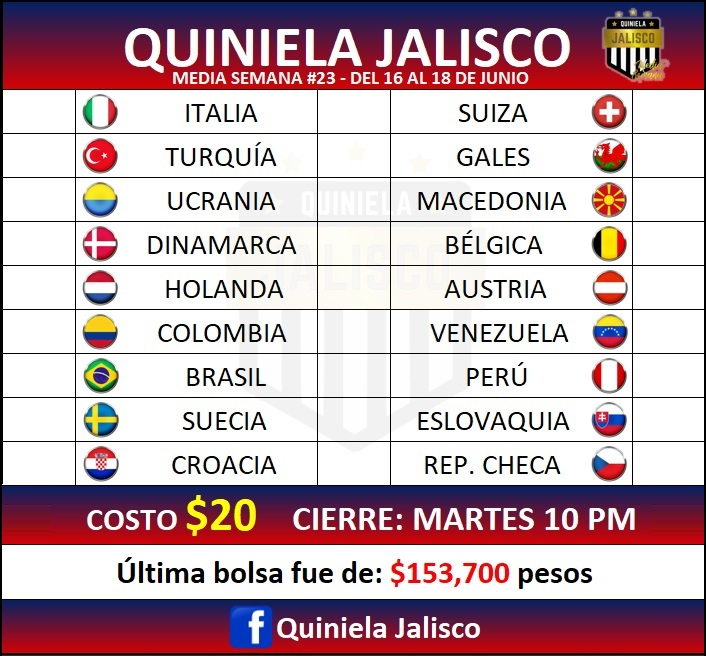
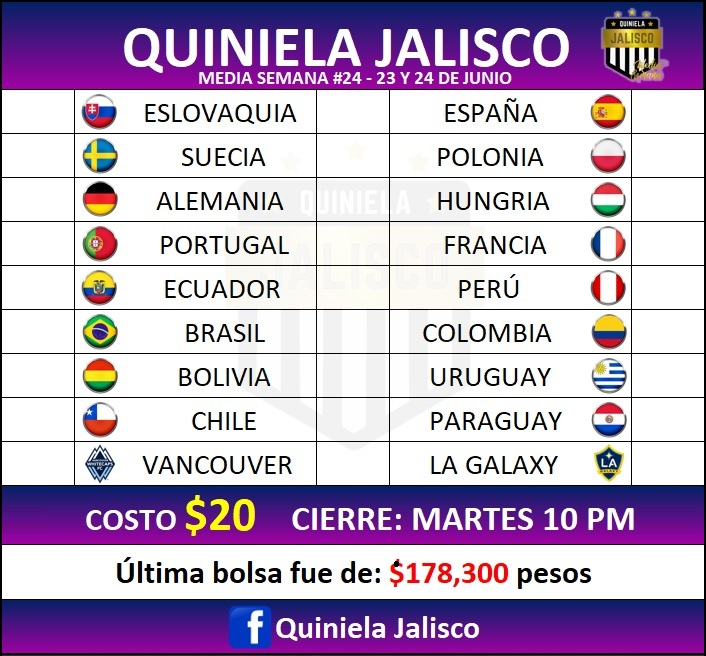
Media Semana #24

diff --git a/MediaSemana/stylesm.css b/MediaSemana/stylesm.css
@@ -74,7 +74,7 @@ body{
     max-width: 400px;
     margin: auto;
     background-color: rgb(6,12,37);
-    background-image: url("fondom.jpg");
+    background-image: url("fondo8.jpg");
     background-repeat: repeat-y;
     background-position: top;
 }
@@ -89,8 +89,8 @@ h1{
     margin-top: 8%;
     border: solid 1px black;
     border-radius: 0 0 14px 14px;
-    background: -webkit-linear-gradient(0.5turn, rgb(208,2,4)  ,rgb(10,31,34) 80%);
-    background: linear-gradient(0.5turn, rgb(208,2,4)  ,rgb(10,31,34) 80%);
+    background: -webkit-linear-gradient(0.5turn, rgb(156,2,160)  ,rgb(11,31,104) 80%);
+    background: linear-gradient(0.5turn, rgb(156,2,160)  ,rgb(11,31,104) 80%);
     font-size: x-large;
 }
 
